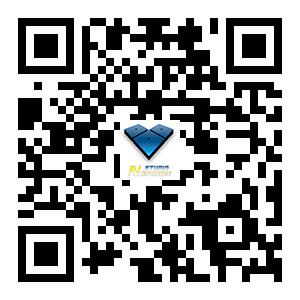
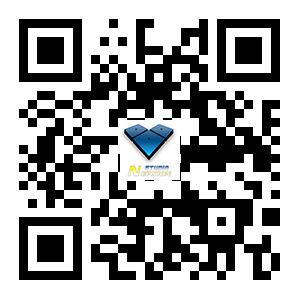
重构类结构

diff --git a/src/main/java/com/nepxion/zxing/entity/ZxingEntity.java b/src/main/java/com/nepxion/zxing/entity/ZxingEntity.java
@@ -20,23 +20,23 @@ import org.apache.commons.lang3.builder.ToStringStyle;
 
 import com.google.zxing.BarcodeFormat;
 import com.google.zxing.qrcode.decoder.ErrorCorrectionLevel;
-import com.nepxion.zxing.constant.ZxingConstants;
+import com.nepxion.zxing.constant.ZxingConstant;
 
 public class ZxingEntity implements Serializable {
     private static final long serialVersionUID = 4989668966674254634L;
 
     private BarcodeFormat barcodeFormat;
     private String text;
-    private String format = ZxingConstants.DEFAULT_FORMAT;
-    private String encoding = ZxingConstants.DEFAULT_ENCODING;
-    private ErrorCorrectionLevel correctionLevel = ZxingConstants.DEFAULT_CORRECTION_LEVEL;
+    private String format = ZxingConstant.DEFAULT_FORMAT;
+    private String encoding = ZxingConstant.DEFAULT_ENCODING;
+    private ErrorCorrectionLevel correctionLevel = ZxingConstant.DEFAULT_CORRECTION_LEVEL;
     private int width;
     private int height;
-    private int margin = ZxingConstants.DEFAULT_MARGIN;
-    private int foregroundColor = ZxingConstants.DEFAULT_FOREGROUND_COLOR;
-    private int backgroundColor = ZxingConstants.DEFAULT_BACKGROUND_COLOR;
-    private boolean deleteWhiteBorder = ZxingConstants.DEFAULT_DELETE_WHITE_BORDER;
-    private File logoFile = new File(ZxingConstants.DEFAULT_LOGO_PATH);
+    private int margin = ZxingConstant.DEFAULT_MARGIN;
+    private int foregroundColor = ZxingConstant.DEFAULT_FOREGROUND_COLOR;
+    private int backgroundColor = ZxingConstant.DEFAULT_BACKGROUND_COLOR;
+    private boolean deleteWhiteBorder = ZxingConstant.DEFAULT_DELETE_WHITE_BORDER;
+    private File logoFile = new File(ZxingConstant.DEFAULT_LOGO_PATH);
     private byte[] logoBytes;
     private File outputFile;
 

diff --git a/src/test/java/com/nepxion/zxing/test/ZxingTest.java b/src/test/java/com/nepxion/zxing/test/ZxingTest.java
@@ -18,7 +18,7 @@ import com.google.zxing.Result;
 import com.nepxion.zxing.core.ZxingDecoder;
 import com.nepxion.zxing.core.ZxingEncoder;
 import com.nepxion.zxing.entity.ZxingEntity;
-import com.nepxion.zxing.util.ZxingUtils;
+import com.nepxion.zxing.util.ZxingUtil;
 
 public class ZxingTest {
     public static void main(String[] args) throws Exception {
@@ -31,7 +31,7 @@ public class ZxingTest {
 
     public static void executeForQRFile() {
         // 二维码内容
-        String text = "https://github.com/Nepxion/";
+        String text = "http://www.nepxion.com";
         // 二维码图片导出路径
         File file = new File("E:/Download/二维码.jpg");
 
@@ -56,7 +56,7 @@ public class ZxingTest {
 
     public static void executeForQRBytes() throws IOException {
         // 二维码内容
-        String text = "https://github.com/Nepxion/";
+        String text = "http://www.nepxion.com";
         // 二维码图片导出路径
         File file = new File("E:/Download/二维码.jpg");
 
@@ -72,7 +72,7 @@ public class ZxingTest {
         ZxingEncoder encoder = new ZxingEncoder();
         byte[] bytes = encoder.encodeForBytes(entity);
 
-        ZxingUtils.createFile(bytes, file);
+        ZxingUtil.createFile(bytes, file);
 
         // 以字节数组格式扫描并解析
         ZxingDecoder decoder = new ZxingDecoder();
@@ -124,7 +124,7 @@ public class ZxingTest {
         ZxingEncoder encoder = new ZxingEncoder();
         byte[] bytes = encoder.encodeForBytes(entity);
 
-        ZxingUtils.createFile(bytes, file);
+        ZxingUtil.createFile(bytes, file);
 
         // 以字节数组格式扫描并解析
         ZxingDecoder decoder = new ZxingDecoder();

diff --git a/src/main/java/com/nepxion/zxing/core/ZxingEncoder.java b/src/main/java/com/nepxion/zxing/core/ZxingEncoder.java
@@ -39,7 +39,7 @@ import com.google.zxing.common.BitMatrix;
 import com.google.zxing.qrcode.decoder.ErrorCorrectionLevel;
 import com.nepxion.zxing.entity.ZxingEntity;
 import com.nepxion.zxing.exception.ZxingException;
-import com.nepxion.zxing.util.ZxingUtils;
+import com.nepxion.zxing.util.ZxingUtil;
 
 /**
  * 相关参数说明
@@ -216,7 +216,7 @@ public class ZxingEncoder {
                 bitMatrix = deleteWhiteBorder(bitMatrix);
             }
 
-            ZxingUtils.createDirectory(outputFile);
+            ZxingUtil.createDirectory(outputFile);
 
             // 先输出二维码/条形码
             MatrixToImageWriter.writeToPath(bitMatrix, format, outputFile.toPath(), imageConfig);

diff --git a/src/main/java/com/nepxion/zxing/constant/ZxingConstant.java b/src/main/java/com/nepxion/zxing/constant/ZxingConstant.java
@@ -12,7 +12,7 @@ package com.nepxion.zxing.constant;
 
 import com.google.zxing.qrcode.decoder.ErrorCorrectionLevel;
 
-public class ZxingConstants {
+public class ZxingConstant {
     public static final String DEFAULT_FORMAT = "jpg";
     public static final String DEFAULT_ENCODING = "UTF-8";
     public static final ErrorCorrectionLevel DEFAULT_CORRECTION_LEVEL = ErrorCorrectionLevel.H;

diff --git a/src/main/java/com/nepxion/zxing/util/ZxingUtil.java b/src/main/java/com/nepxion/zxing/util/ZxingUtil.java
@@ -17,7 +17,7 @@ import java.io.IOException;
 
 import org.apache.commons.io.IOUtils;
 
-public class ZxingUtils {
+public class ZxingUtil {
     public static void createFile(byte[] bytes, File file) throws IOException {
         String filePath = file.getCanonicalPath();
         filePath = filePath.replace("\\", "/");
